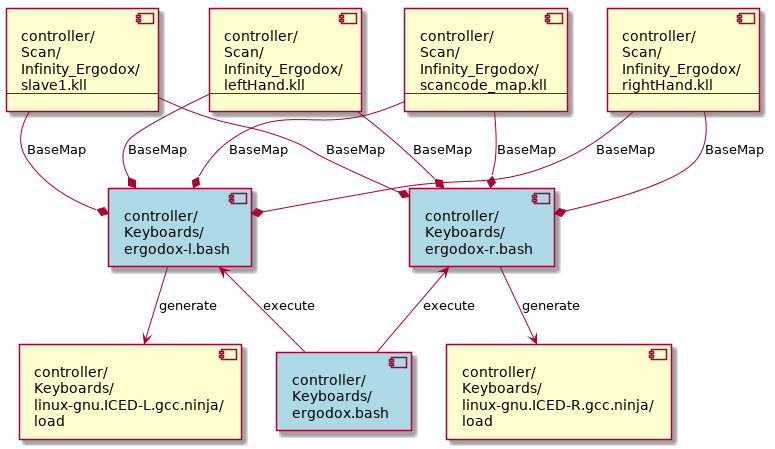
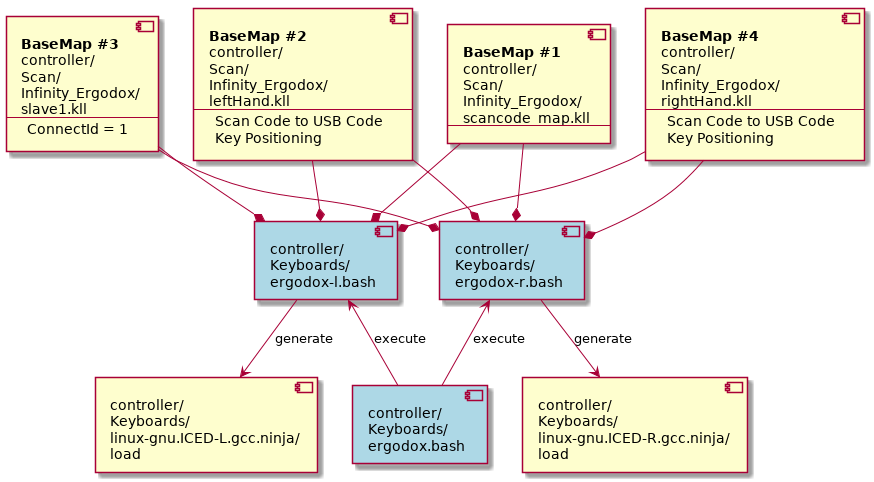
Updated KLUELOGIC_ERGODOX.md

diff --git a/doc/KLUELOGIC_ERGODOX.md b/doc/KLUELOGIC_ERGODOX.md
@@ -26,6 +26,15 @@ pipenv shell
 ### ErgoDox Switch ID
 ![switch_id](images/switch_id.png)
 
+### Scan Code
+![scan_code](images/scan_code.png)
+
+### USB Code (`Scan/Infinity_Ergodox/leftHand.kll`, `Scan/Infinity_Ergodox/rightHand.kll`)
+![usb_code](images/usb_code.png)
+
+### Key Positioning (`Scan/Infinity_Ergodox/leftHand.kll`, `Scan/Infinity_Ergodox/rightHand.kll`)
+![key_pos](images/key_pos.png)
+
 ### Layer 0 (`kll/layouts/my_config.kll`)
 Deviation from the original ErgoDox layout is shown in _**bold italic**_.
 
